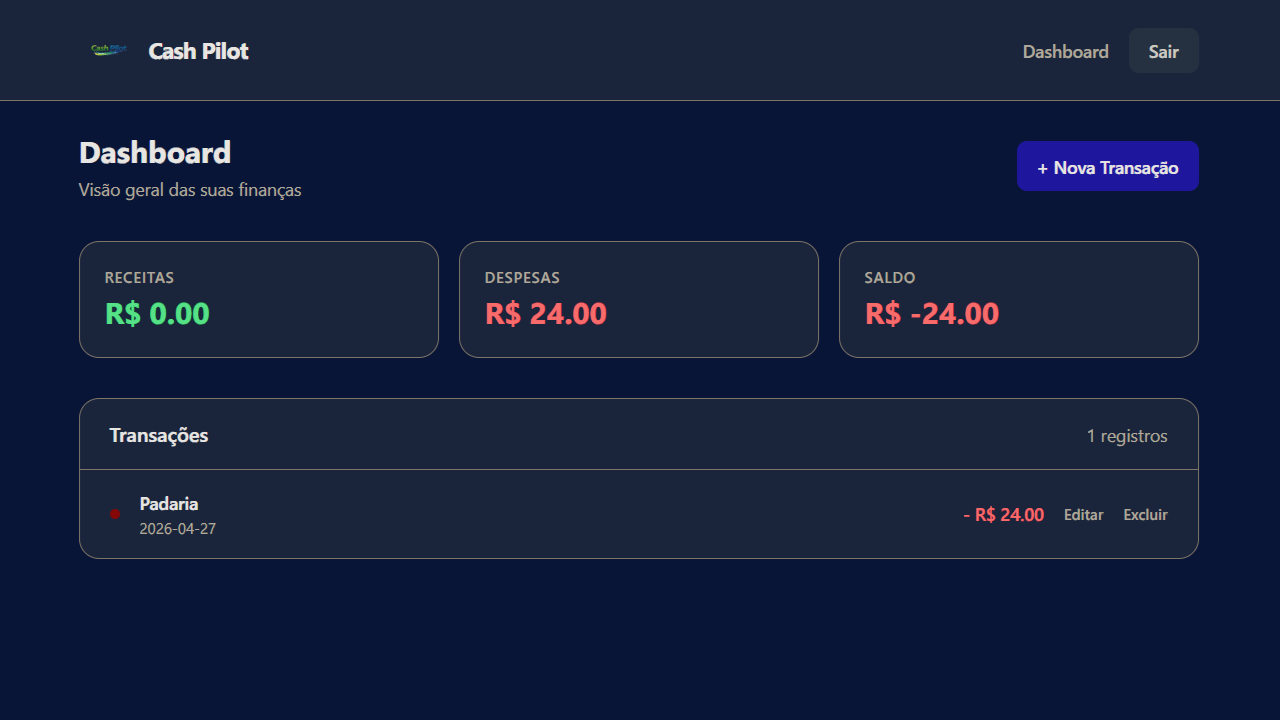
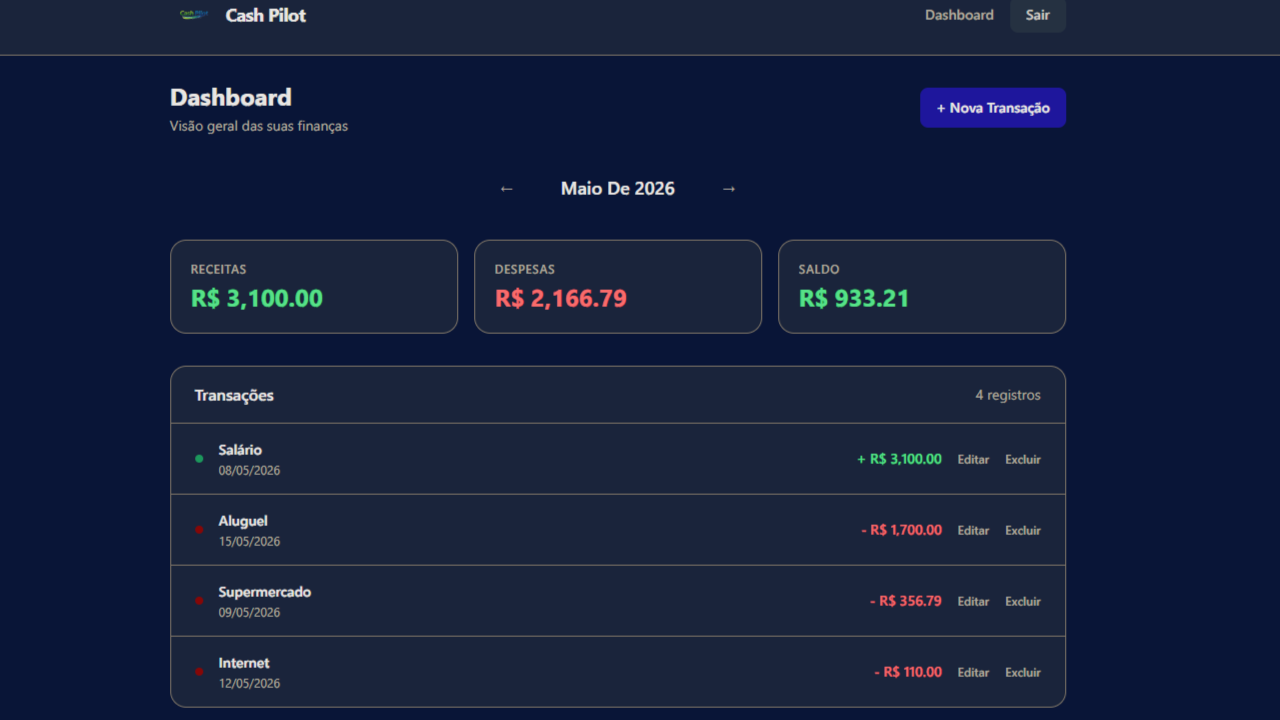
feat: update CashPilot info

diff --git a/projetos/cashpilot.html b/projetos/cashpilot.html
@@ -84,6 +84,7 @@
                     <li>Login seguro com validação de credenciais e BCrypt</li>
                     <li>CRUD completo de transações financeiras</li>
                     <li>Classificação por tipo: Receita (INCOME) e Despesa (EXPENSE)</li>
+                    <li>Transações seperadas por mês</li>
                     <li>Resumo financeiro: total de receitas, despesas e saldo</li>
                     <li>Proteção de rotas no frontend com Auth Guard</li>
                     <li>Interceptação automática de requisições HTTP com token JWT</li>
@@ -108,7 +109,7 @@
                     <h4>Tecnologias</h4>
                     <ul class="lista-tech">
                         <li><i class="fab fa-java"></i> Java 21</li>
-                        <li><i class="fas fa-leaf"></i> Spring Boot 3.4</li>
+                        <li><i class="fas fa-leaf"></i> Spring Boot 4.0.6</li>
                         <li><i class="fas fa-lock"></i> Spring Security + JWT</li>
                         <li><i class="fas fa-database"></i> PostgreSQL</li>
                         <li><i class="fab fa-angular"></i> Angular 17</li>
@@ -189,10 +190,6 @@
         </p>
 
         <ul class="roadmap-lista">
-            <li>
-                <i class="fas fa-calendar-alt"></i>
-                Filtro de transações por mês e ano no dashboard
-            </li>
             <li>
                 <i class="fas fa-chart-pie"></i>
                 Gráficos de evolução financeira mensal
